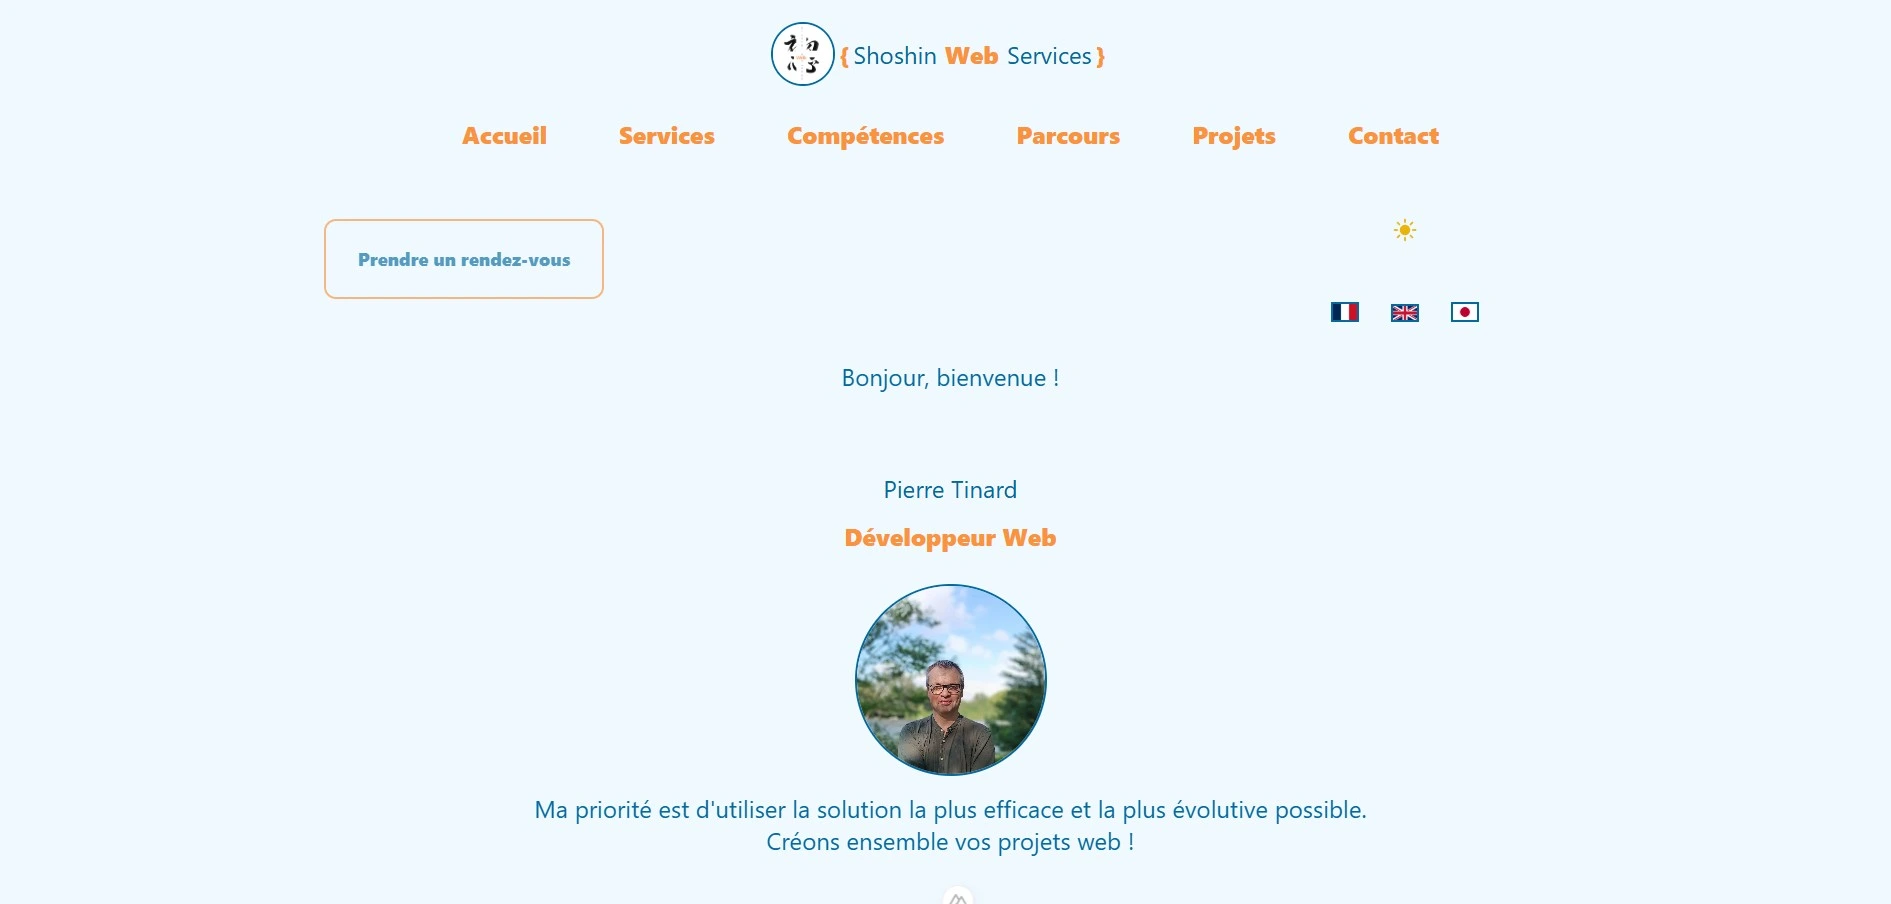
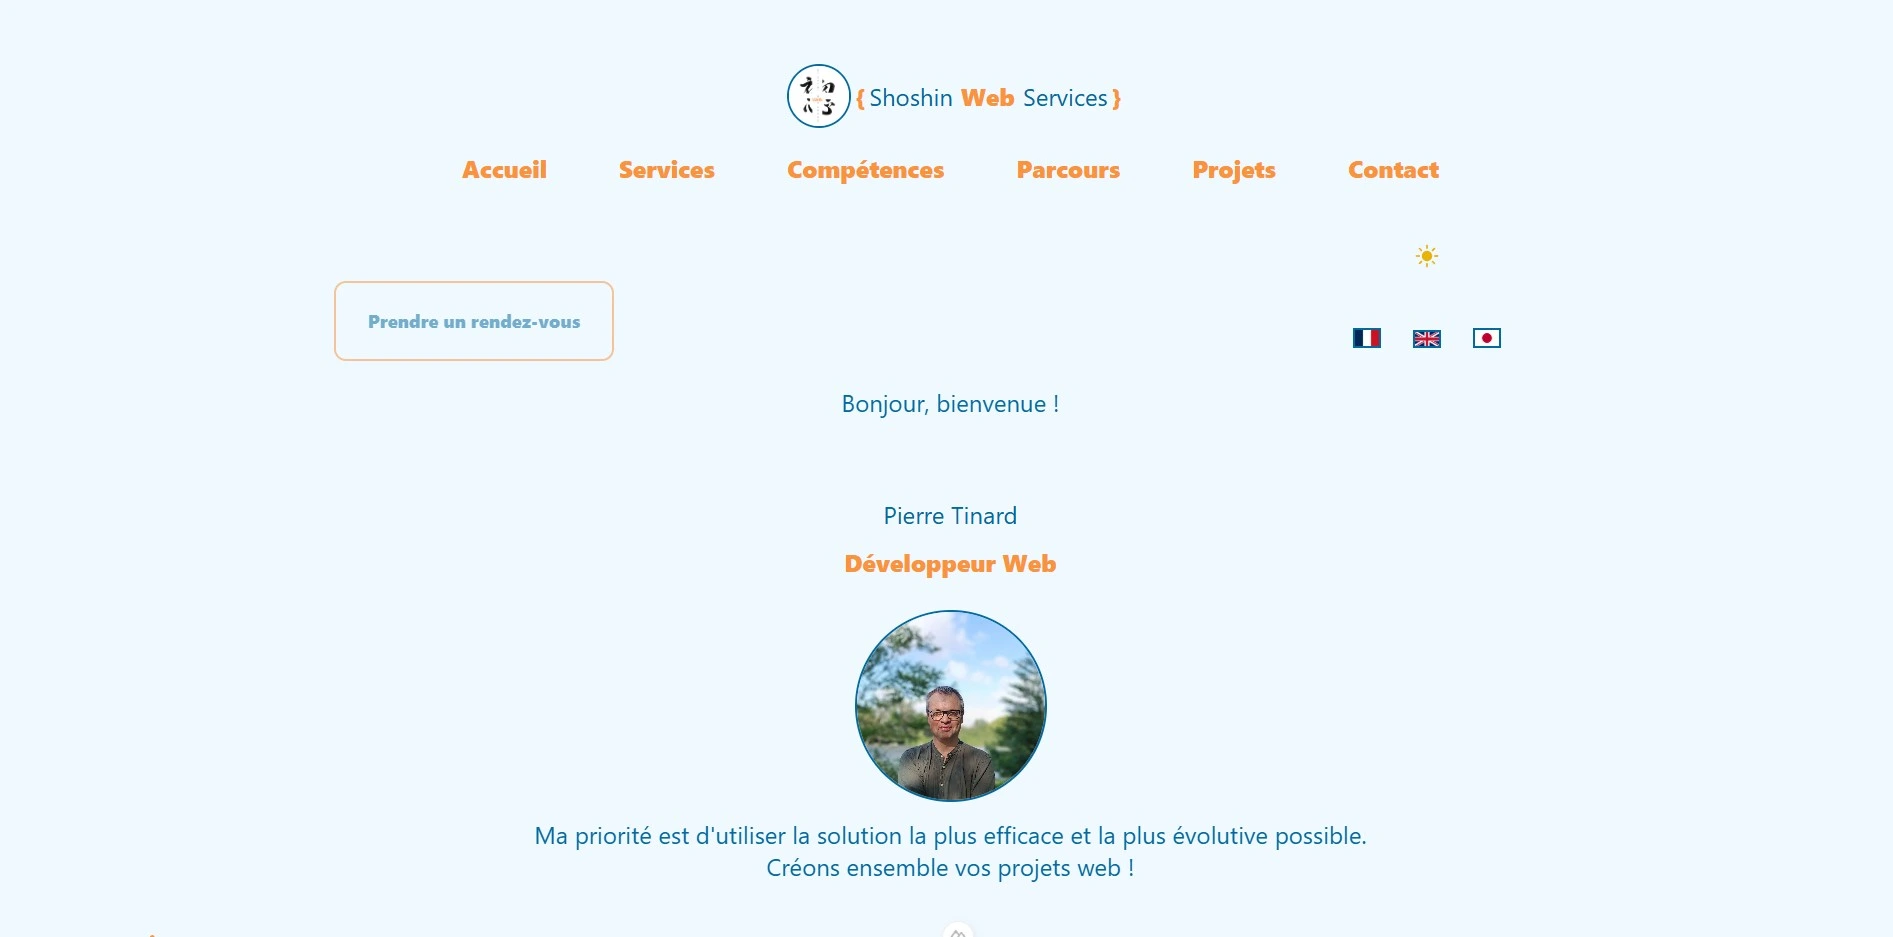
optimisation responsive 2xl, changement image profil

diff --git a/components/NavBar.vue b/components/NavBar.vue
@@ -1,9 +1,9 @@
 <template>
     <div class="w-auto">
         <ClientOnly>
-        <nav class="md:grid grid-cols-2 md:row-span-4 md:items-center md:justify-items-center 2xl:grid-cols-2 2xl:gap-2">
+        <nav class="md:grid grid-cols-2 md:row-span-4 md:items-center md:justify-items-center">
             <div class="flex justify-center mx-auto md:flex md:items-start md:col-span-2 md:my-2 md:mt-10 md:w-auto 
-            md:justify-evenly 2xl:items-center 2xl:col-span-2 2xl:mt-0">
+            md:justify-evenly">
                 <div class="flex justify-center 2xl:justify-center">
                     <img src="assets/images/logo.svg" alt="Logo" class="h-16 w-16 my-6 mx-2 rounded-full border-2 border-sky-700 dark:border-orange-400 cursor-pointer" @click="showDefinitions" />
                     <div class="flex text-2xl text-orange-400 mt-10 mb-10 -ml-1">
@@ -53,7 +53,7 @@
                     </NuxtLink> 
                 </div>
             </div>        
-            <div class="hidden md:flex md:flex-wrap md:col-span-6 md:mx-auto md:justify-center md:items-center gap-x-6 gap-y-8">
+            <div class="hidden md:flex md:flex-wrap md:col-span-6 md:mx-auto md:justify-center md:items-center gap-x-6 gap-y-8 2xl:w-full 2xl:justify-center">
               <NuxtLink v-for="({ label, hash, aria }, index) in links" :key="index" :aria-label="aria" 
               :to="{ path: localePath('/'), hash }"
               :class="[ 'relative group overflow-hidden text-orange-400 font-black dark:text-white text-2xl hover:underline hover:underline-offset-8 mx-6 -mt-2 transition-transform transform hover:scale-105 duration-300',
@@ -63,7 +63,7 @@
               </span>
               </NuxtLink>
             </div>
-            <div class="flex justify-center md:mt-2">
+            <div class="flex justify-center md:mt-20">
                 <a href="https://calendly.com/shoshinwebservices" aria-label="Cliquez ici pour prendre un rendez-vous sur l'agenda Calendly" 
                 role="button"  cta-button target="_blank">
                     <button class="justify-items-center text-sky-700 text-xl xl:text-lg dark:text-white hover:bg-gradient-to-r from-orange-400 

diff --git a/pages/maintenance.vue b/pages/maintenance.vue
@@ -6,7 +6,17 @@
     </div>
   </div>
 </template>
-<script setup>
+<script setup lang="ts">
+import { useHead } from '#imports'
+
+useHead({
+  meta: [
+    {
+      name: 'robots',
+      content: 'noindex, nofollow'
+    }
+  ]
+})
 </script>
 
 <style scoped>
